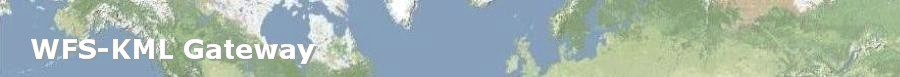
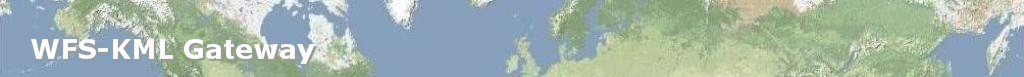
Site style

diff --git a/src/site/resources/css/site.css b/src/site/resources/css/site.css
@@ -1,0 +1,12 @@
+body {
+	width: 1024px;
+}
+
+#banner {
+	height: 77px;
+	background: none;
+}
+
+.poweredBy img {
+	margin-left: 40px;
+}
